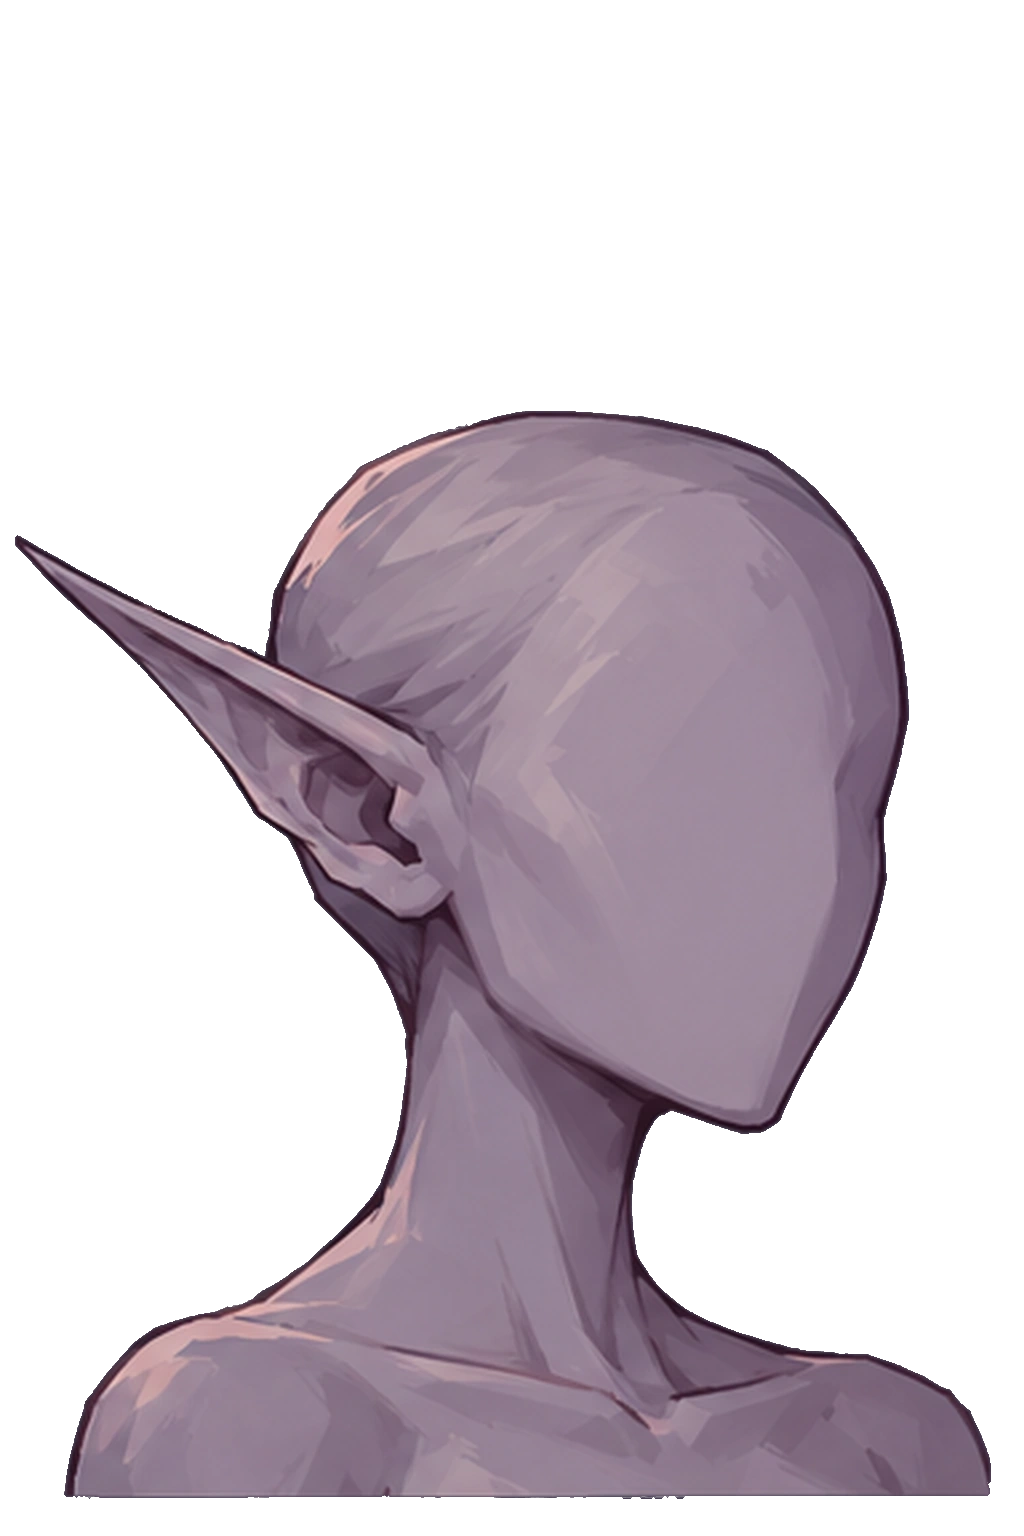
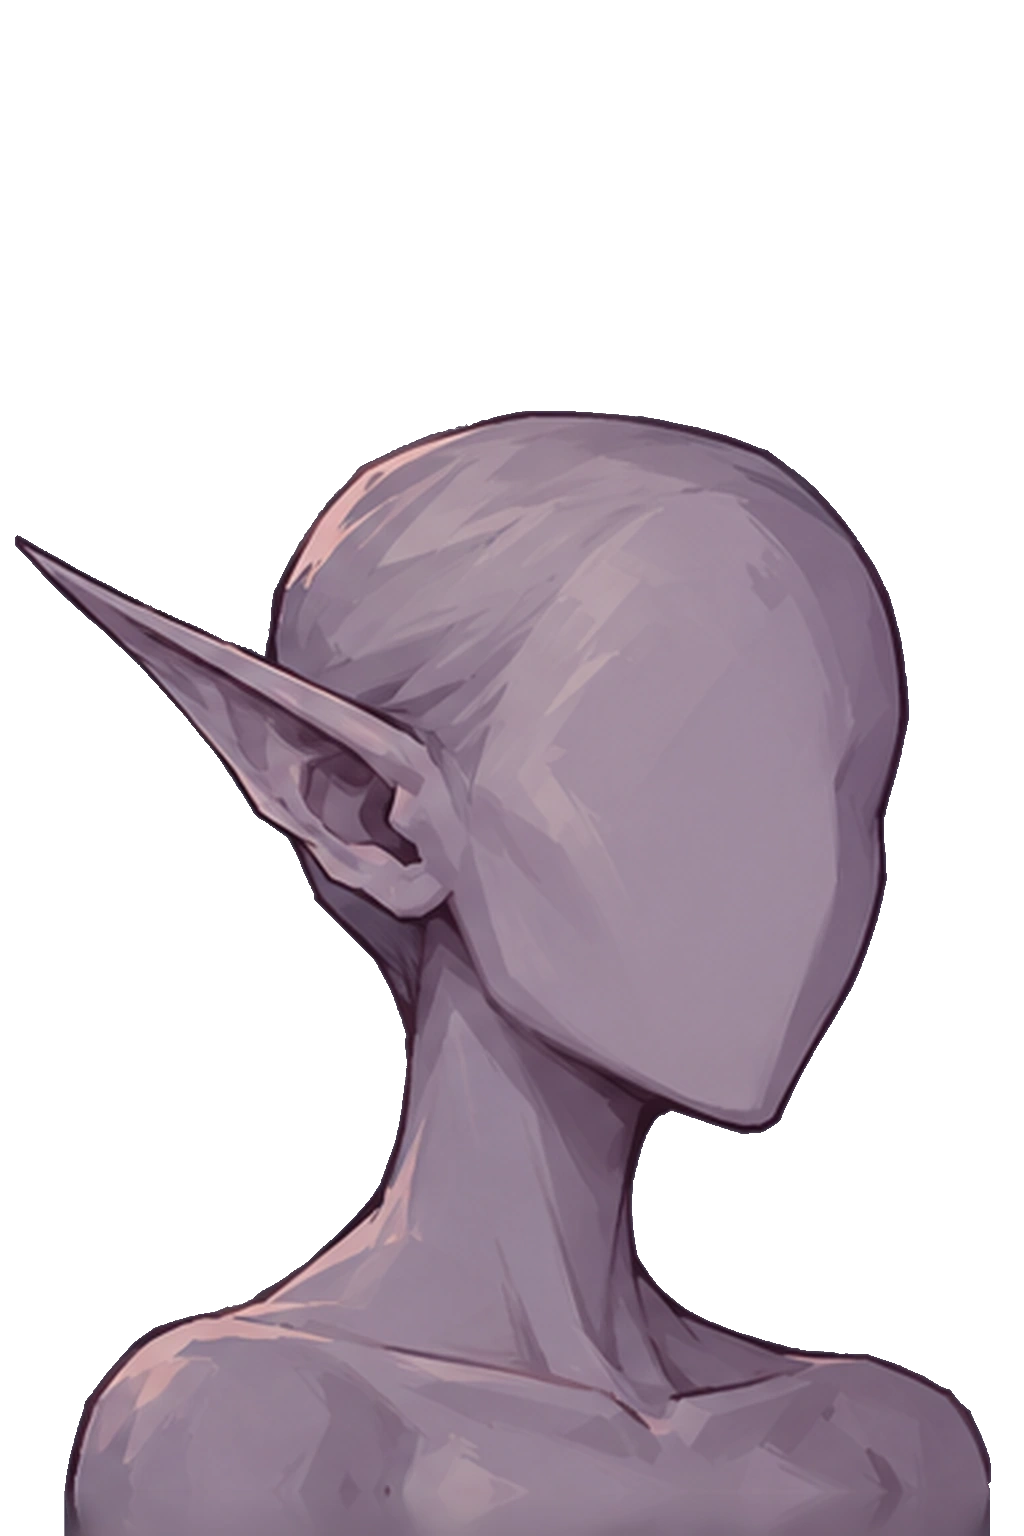
feat: character creator portrait backgrounds and frames
Per the backgrounds and frames addenda (applied together — both were
missing, this is one combined pass). Also picks up the asset pack's
other deltas: 3 more hairstyles (hair_5/6/7) and an updated base.webp
(shoulders now reach the canvas's bottom edge).

Backgrounds (manifest-level, shared across characters):
- New top-level backgrounds/defaultBackground. Two kinds of entry —
  picture (file) or plain colour (color) — drawn first, before any
  character layer, never recoloured/tinted/transformed.
- New top-level `background` state field. Unlike every other field, a
  missing or unknown value falls back to none, not the manifest
  default — an older save should look the same as when it was saved,
  not suddenly grow a background. A brand new character still starts
  with defaultBackground. Randomize re-rolls it (including None as a
  possible outcome); Reset all returns to defaultBackground.
- UI: pictures as thumbnails then colours as swatches, plus None,
  positioned after Hair colour.

Frames (manifest-level):
- New top-level frames/defaultFrame, each with a `window` rect in
  canvas pixels. prepareLayers resolves state.frame the same
  not-found-or-missing-means-none way as background.
- Rendering split in renderer.js: drawPortrait() now does exactly what
  renderCharacter() used to (background + layerOrder), and the new
  renderCharacter() wraps it — no frame: draws straight through; a
  frame: assembles the full portrait on an offscreen canvas, scales it
[…]

Changed region(s): [[0.0625, 0.9688, 0.9688, 1.0]]

diff --git a/src/jenis32/characterCreator/CharacterCreator.jsx b/src/jenis32/characterCreator/CharacterCreator.jsx
@@ -85,6 +85,61 @@ function ColorSwatches({ label, options, selectedId, onSelect, swatchOf = (o) =>
   );
 }
 
+const checker = "bg-[conic-gradient(#e5e5e5_90deg,#fff_90deg_180deg,#e5e5e5_180deg_270deg,#fff_270deg)] bg-[length:10px_10px]";
+const thumbBtn = (active) =>
+  `w-12 h-12 rounded border-2 overflow-hidden shrink-0 cursor-pointer ${active ? "border-gray-900 scale-110" : "border-gray-300"}`;
+
+// Pictures first, then plain colours (backgrounds addendum section 3.2),
+// plus None since a background is optional.
+function BackgroundPicker({ backgrounds, selectedId, onSelect }) {
+  const pictures = backgrounds.filter((b) => b.file);
+  const colors = backgrounds.filter((b) => b.color);
+  return (
+    <div className={sectionBox}>
+      <p className={fieldLabel}>Background</p>
+      <div className="flex gap-2 flex-wrap items-center">
+        <button type="button" onClick={() => onSelect(null)} className={optionBtn(!selectedId)}>
+          None
+        </button>
+        {pictures.map((b) => (
+          <button key={b.id} type="button" onClick={() => onSelect(b.id)} title={b.name} className={thumbBtn(selectedId === b.id)}>
+            <img src={`/character-assets/${b.file}`} alt={b.name} className="w-full h-full object-cover" />
+          </button>
+        ))}
+        {colors.map((b) => (
+          <button
+            key={b.id}
+            type="button"
+            onClick={() => onSelect(b.id)}
+            title={b.name}
+            aria-label={b.name}
+            className={`w-8 h-8 rounded-full border-2 cursor-pointer ${selectedId === b.id ? "border-gray-900 scale-110" : "border-gray-300"}`}
+            style={{ backgroundColor: b.color }}
+          />
+        ))}
+      </div>
+    </div>
+  );
+}
+
+function FramePicker({ frames, selectedId, onSelect }) {
+  return (
+    <div className={sectionBox}>
+      <p className={fieldLabel}>Frame</p>
+      <div className="flex gap-2 flex-wrap items-center">
+        <button type="button" onClick={() => onSelect(null)} className={optionBtn(!selectedId)}>
+          None
+        </button>
+        {frames.map((f) => (
+          <button key={f.id} type="button" onClick={() => onSelect(f.id)} title={f.name} className={`${thumbBtn(selectedId === f.id)} ${checker}`}>
+            <img src={`/character-assets/${f.file}`} alt={f.name} className="w-full h-full object-contain" />
+          </button>
+        ))}
+      </div>
+    </div>
+  );
+}
+
 const CharacterCreator = ({ manifest, value, onChange, onCreate, creating = false, createLabel = "Create", createError = null }) => {
   const canvasRef = useRef(null);
   const layersRef = useRef(null);
@@ -120,7 +175,7 @@ const CharacterCreator = ({ manifest, value, onChange, onCreate, creating = fals
     let cancelled = false;
     setPreviewLoading(true);
     setPreviewError(null);
-    prepareLayers(character, value)
+    prepareLayers(manifest, character, value)
       .then((prepared) => {
         if (cancelled) return;
         layersRef.current = prepared;
@@ -136,7 +191,7 @@ const CharacterCreator = ({ manifest, value, onChange, onCreate, creating = fals
       cancelled = true;
     };
     // eslint-disable-next-line react-hooks/exhaustive-deps
-  }, [character, value.skinTone, value.eyeColor, value.hairColor, ...allParts.map((p) => value[p]?.id)]);
+  }, [character, value.skinTone, value.eyeColor, value.hairColor, value.background, value.frame, ...allParts.map((p) => value[p]?.id)]);
 
   useEffect(() => {
     scheduleRedraw();
@@ -164,15 +219,17 @@ const CharacterCreator = ({ manifest, value, onChange, onCreate, creating = fals
   }
 
   function handleRandomize() {
-    const next = randomStateFor(manifest, value.bodyType, value.race);
+    const next = randomStateFor(manifest, value.bodyType, value.race, value.frame);
     if (next) onChange(next);
   }
 
   function handleResetAll() {
     const next = {
-      version: 2,
+      version: 4,
       bodyType: value.bodyType,
       race: value.race,
+      background: manifest.defaultBackground ?? null,
+      frame: manifest.defaultFrame ?? null,
       skinTone: character.defaults.skinTone,
       eyeColor: character.defaults.eyeColor,
       hairColor: character.defaults.hairColor,
@@ -339,6 +396,18 @@ const CharacterCreator = ({ manifest, value, onChange, onCreate, creating = fals
               onSelect={(id) => set({ hairColor: id })}
               swatchOf={(o) => o.color}
             />
+          )}
+
+          {manifest.backgrounds && (
+            <BackgroundPicker
+              backgrounds={manifest.backgrounds}
+              selectedId={value.background}
+              onSelect={(id) => set({ background: id })}
+            />
+          )}
+
+          {manifest.frames && (
+            <FramePicker frames={manifest.frames} selectedId={value.frame} onSelect={(id) => set({ frame: id })} />
           )}
 
           <div className="flex items-center gap-3 flex-wrap pt-1">

diff --git a/src/jenis32/characterCreator/renderer.js b/src/jenis32/characterCreator/renderer.js
@@ -1,16 +1,30 @@
-// Pure drawing function for the character creator (gameplan section 4.1).
-// No DOM access beyond the canvas context it's handed, no component
-// state — given a state object, the manifest, and layers already prepared
-// by layerCache.prepareLayers, it just draws. This separation is what lets
+// Drawing functions for the character creator (gameplan section 4.1).
+// Given a state object, the manifest, and layers already prepared by
+// layerCache.prepareLayers, these just draw. This separation is what lets
 // the UI be thrown away and rebuilt later without touching this file.
 
-export function renderCharacter(ctx, state, manifest, layers) {
+// Background, then every character layer in order, onto the given
+// context — no frame. The single place the portrait itself is assembled;
+// renderCharacter below calls this once directly (no frame) or once onto
+// an offscreen canvas before wrapping it in a frame, so frame-handling
+// never needs to know how a layer is drawn.
+export function drawPortrait(ctx, state, manifest, prepared) {
   const character = manifest.characters[`${state.race}_${state.bodyType}`];
   if (!character) return;
 
-  ctx.clearRect(0, 0, manifest.canvas.width, manifest.canvas.height);
+  const { width, height } = manifest.canvas;
+  ctx.clearRect(0, 0, width, height);
   ctx.imageSmoothingEnabled = true;
   ctx.imageSmoothingQuality = "high";
+
+  // Background first — never recoloured, tinted, or transformed.
+  const bg = prepared.background;
+  if (bg?.image) {
+    ctx.drawImage(bg.image, 0, 0, width, height);
+  } else if (bg?.color) {
+    ctx.fillStyle = bg.color;
+    ctx.fillRect(0, 0, width, height);
+  }
 
   const partStateFor = (layerKey) => {
     const dot = layerKey.indexOf(".");
@@ -19,7 +33,7 @@ export function renderCharacter(ctx, state, manifest, layers) {
   };
 
   for (const layerKey of character.layerOrder) {
-    const layer = layers[layerKey];
+    const layer = prepared.parts[layerKey];
     if (!layer || !layer.image) continue;
 
     const partState = partStateFor(layerKey);
@@ -38,5 +52,46 @@ export function renderCharacter(ctx, state, manifest, layers) {
     ctx.translate(-pivotX, -pivotY);
     ctx.drawImage(layer.image, layer.x, layer.y);
     ctx.restore();
+  }
+}
+
+// With no frame: draws the portrait straight onto the given canvas context,
+// exactly as before. With a frame: assembles the full portrait on an
+// offscreen canvas first (frames note, section 3), then scales it to
+// *cover* the frame's window, centred and clipped to that rectangle, and
+// finally draws the frame art on top at full size. The result is
+// transparent outside the frame's outer edge — intended.
+export function renderCharacter(ctx, state, manifest, prepared) {
+  const frame = prepared.frame;
+  const { width, height } = manifest.canvas;
+
+  if (!frame) {
+    drawPortrait(ctx, state, manifest, prepared);
+    return;
+  }
+
+  const offscreen = document.createElement("canvas");
+  offscreen.width = width;
+  offscreen.height = height;
+  drawPortrait(offscreen.getContext("2d"), state, manifest, prepared);
+
+  ctx.clearRect(0, 0, width, height);
+
+  const win = frame.window;
+  const scale = Math.max(win.width / width, win.height / height);
+  const drawWidth = width * scale;
+  const drawHeight = height * scale;
+  const dx = win.x + (win.width - drawWidth) / 2;
+  const dy = win.y + (win.height - drawHeight) / 2;
+
+  ctx.save();
+  ctx.beginPath();
+  ctx.rect(win.x, win.y, win.width, win.height);
+  ctx.clip();
+  ctx.drawImage(offscreen, dx, dy, drawWidth, drawHeight);
+  ctx.restore();
+
+  if (frame.image) {
+    ctx.drawImage(frame.image, 0, 0, width, height);
   }
 }

diff --git a/src/jenis32/characterCreator/layerCache.js b/src/jenis32/characterCreator/layerCache.js
@@ -52,6 +52,13 @@ export function assetUrl(characterPath, relativeFile) {
   return `${ASSET_BASE}/${characterPath}/${relativeFile}`;
 }
 
+// Backgrounds and frames live at the asset root (character-assets/), not
+// nested under a character's own folder — their manifest "file" is already
+// relative to that root.
+export function rootAssetUrl(relativeFile) {
+  return `${ASSET_BASE}/${relativeFile}`;
+}
+
 export function manifestUrl() {
   return `${ASSET_BASE}/manifest.json`;
 }
@@ -123,23 +130,32 @@ function findById(list, id) {
 }
 
 /**
- * Resolve and prepare every layer a given state needs, returning a map
- * keyed by the character's layerOrder entries ("base", "eyes.skin", ...)
- * to { image, x, y, pivot? } ready for renderCharacter to draw.
+ * Resolve and prepare everything a given state needs to render: the
+ * character's layers (keyed by its layerOrder entries, e.g. "base",
+ * "eyes.skin", ...) plus the manifest-level background and frame, if any.
+ * Returns { parts, background, frame } ready for renderer.js.
  *
  * Generic over part types and their sub-layers: a part type is any key
  * appearing in layerOrder before the dot (derivePartTypes), and a part
  * may have any subset of skin/color/tint/glow layers — whichever its
  * chosen option actually defines. A part type whose state is null (an
  * optional part set to "none", e.g. hair) contributes no layers at all.
+ *
+ * Backgrounds and frames are manifest-level (shared across characters,
+ * not nested under one), never recoloured/tinted — just loaded and drawn
+ * as-is — so they need no canvas-copy caching beyond the plain
+ * URL-keyed image cache every other asset already uses.
  */
-export async function prepareLayers(character, state) {
+export async function prepareLayers(manifest, character, state) {
   const path = character.path;
   const tone = findById(character.skinTones, state.skinTone);
   const eyeColor = findById(character.eyeColors ?? [], state.eyeColor);
   const hairColorHex = findById(character.hairColors ?? [], state.hairColor)?.color;
   const skinLayers = character.skinLayers ?? [];
   const partTypes = derivePartTypes(character);
+
+  const bgEntry = (manifest.backgrounds ?? []).find((b) => b.id === state.background) ?? null;
+  const frameEntry = (manifest.frames ?? []).find((f) => f.id === state.frame) ?? null;
 
   // One job per (partType, subLayer) that the chosen option actually has.
   // A part whose state is explicitly null (optional, set to "none")
@@ -158,8 +174,10 @@ export async function prepareLayers(character, state) {
     }
   }
 
-  const [baseImg, ...jobImgs] = await Promise.all([
+  const [baseImg, bgImg, frameImg, ...jobImgs] = await Promise.all([
     loadImage(assetUrl(path, character.base)),
+    bgEntry?.file ? loadImage(rootAssetUrl(bgEntry.file)) : Promise.resolve(null),
+    frameEntry?.file ? loadImage(rootAssetUrl(frameEntry.file)) : Promise.resolve(null),
     ...jobs.map((j) => loadImage(assetUrl(path, j.info.file))),
   ]);
 
@@ -223,7 +241,10 @@ export async function prepareLayers(character, state) {
     layers[job.layerKey] = { image, x: job.info.x, y: job.info.y, pivot: job.pivot };
   });
 
-  return layers;
+  const background = bgEntry ? { color: bgEntry.color ?? null, image: bgEntry.file ? bgImg : null } : null;
+  const frame = frameEntry ? { image: frameImg, window: frameEntry.window } : null;
+
+  return { parts: layers, background, frame };
 }
 
 // "Clear any cached recoloured or tinted layers" — an escape hatch for a

diff --git a/src/jenis32/characterCreator/state.js b/src/jenis32/characterCreator/state.js
@@ -19,7 +19,7 @@
 import { SLIDERS, DEFAULT_PART_STATE, RANDOMIZE_RANGES, clampSliderValue } from "./sliderConfig.js";
 import { derivePartTypes } from "./parts.js";
 
-const STATE_VERSION = 2;
+const STATE_VERSION = 4;
 
 function firstEnabled(list) {
   return (list.find((item) => item.enabled) ?? list[0])?.id;
@@ -57,6 +57,8 @@ export function defaultStateFor(manifest, bodyType, race) {
     version: STATE_VERSION,
     bodyType,
     race,
+    background: manifest.defaultBackground ?? null,
+    frame: manifest.defaultFrame ?? null,
     skinTone: d.skinTone,
     eyeColor: d.eyeColor,
     hairColor: d.hairColor,
@@ -98,8 +100,14 @@ export function sanitizeState(manifest, raw) {
   const skinTone = character.skinTones.some((t) => t.id === raw?.skinTone) ? raw.skinTone : character.defaults.skinTone;
   const eyeColor = (character.eyeColors ?? []).some((c) => c.id === raw?.eyeColor) ? raw.eyeColor : character.defaults.eyeColor;
   const hairColor = (character.hairColors ?? []).some((c) => c.id === raw?.hairColor) ? raw.hairColor : character.defaults.hairColor;
+  // Unlike every other field, a missing or unknown background/frame falls
+  // back to none rather than the manifest default — an older save (no
+  // background/frame key at all) should look the same as when it was
+  // saved, not suddenly grow a background it never had.
+  const background = (manifest.backgrounds ?? []).some((b) => b.id === raw?.background) ? raw.background : null;
+  const frame = (manifest.frames ?? []).some((f) => f.id === raw?.frame) ? raw.frame : null;
 
-  const state = { version: STATE_VERSION, bodyType, race, skinTone, eyeColor, hairColor };
+  const state = { version: STATE_VERSION, bodyType, race, background, frame, skinTone, eyeColor, hairColor };
 
   for (const partType of slottedPartTypes(character)) {
     const options = character[partType] ?? [];
@@ -136,7 +144,10 @@ function randomSliderValue(key) {
   return clampSliderValue(key, Math.round(raw * 100) / 100);
 }
 
-export function randomStateFor(manifest, bodyType, race) {
+// currentFrame is passed through unchanged — "Randomise leaves the frame
+// as it is" (the frames addendum). Everything else, including the
+// background, is freshly randomized.
+export function randomStateFor(manifest, bodyType, race, currentFrame = null) {
   const character = getCharacter(manifest, bodyType, race);
   if (!character) return null;
   const makeSlotted = (list) => {
@@ -144,10 +155,13 @@ export function randomStateFor(manifest, bodyType, race) {
     for (const s of SLIDERS) out[s.key] = randomSliderValue(s.key);
     return out;
   };
+  const backgroundChoices = [...(manifest.backgrounds ?? []), { id: null }];
   const state = {
     version: STATE_VERSION,
     bodyType,
     race,
+    background: randomFrom(backgroundChoices).id,
+    frame: currentFrame,
     skinTone: randomFrom(character.skinTones).id,
     eyeColor: randomFrom(character.eyeColors ?? [{ id: character.defaults.eyeColor }]).id,
     hairColor: randomFrom(character.hairColors ?? [{ id: character.defaults.hairColor }]).id,

diff --git a/src/jenis32/pages/CharacterCreatorCheck.jsx b/src/jenis32/pages/CharacterCreatorCheck.jsx
@@ -58,11 +58,11 @@ const CharacterCreatorCheck = () => {
           const rawState = await stateRes.json();
           const state = sanitizeState(m, rawState);
           const character = getCharacter(m, state.bodyType, state.race);
-          const layers = await prepareLayers(character, state);
+          const prepared = await prepareLayers(m, character, state);
 
           const canvas = canvasRefs.current[name];
           const ctx = canvas.getContext("2d");
-          renderCharacter(ctx, state, m, layers);
+          renderCharacter(ctx, state, m, prepared);
 
           const refImg = await loadImage(`/character-assets/reference/${name}.png`);
           const refCanvas = refCanvasRefs.current[name];
